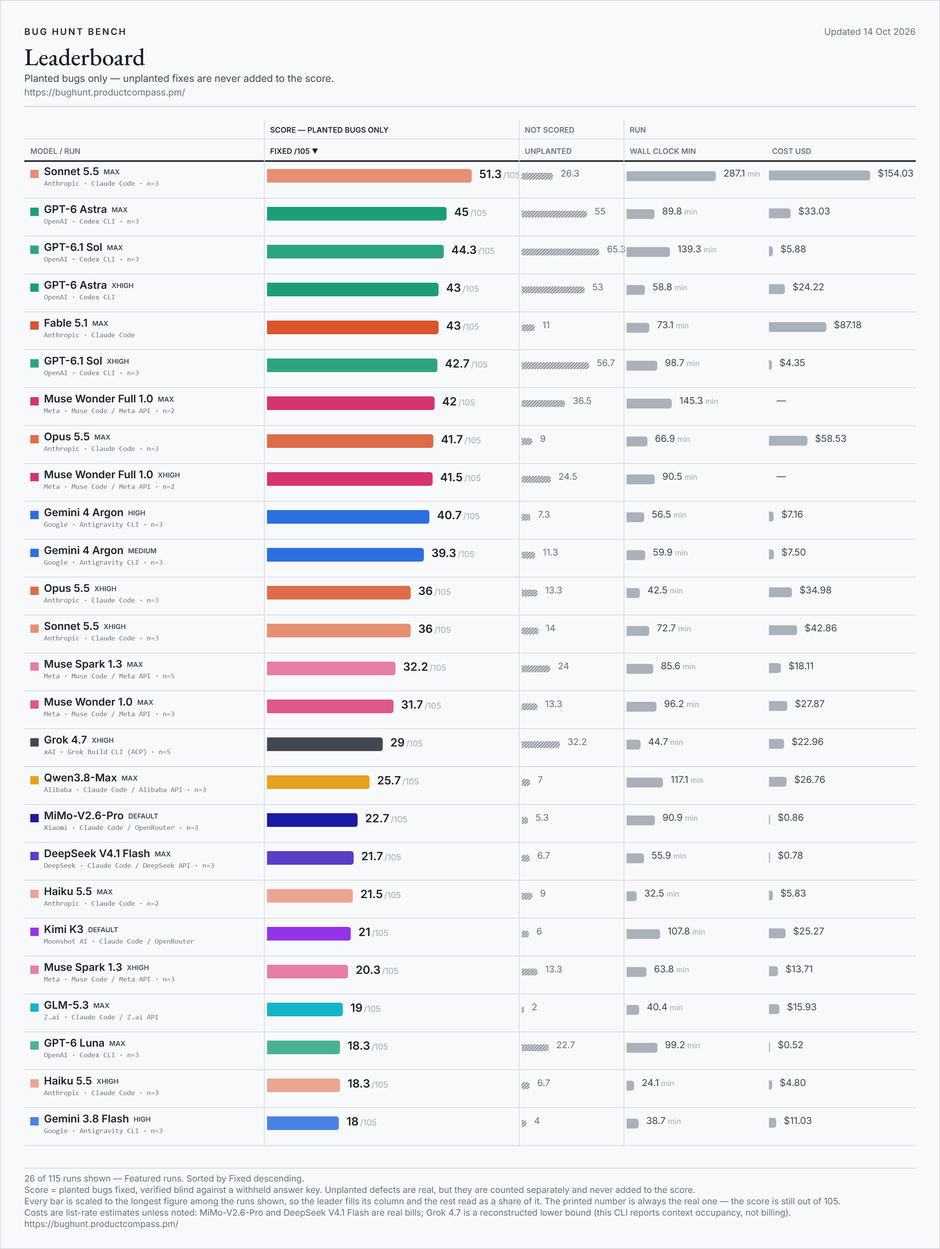
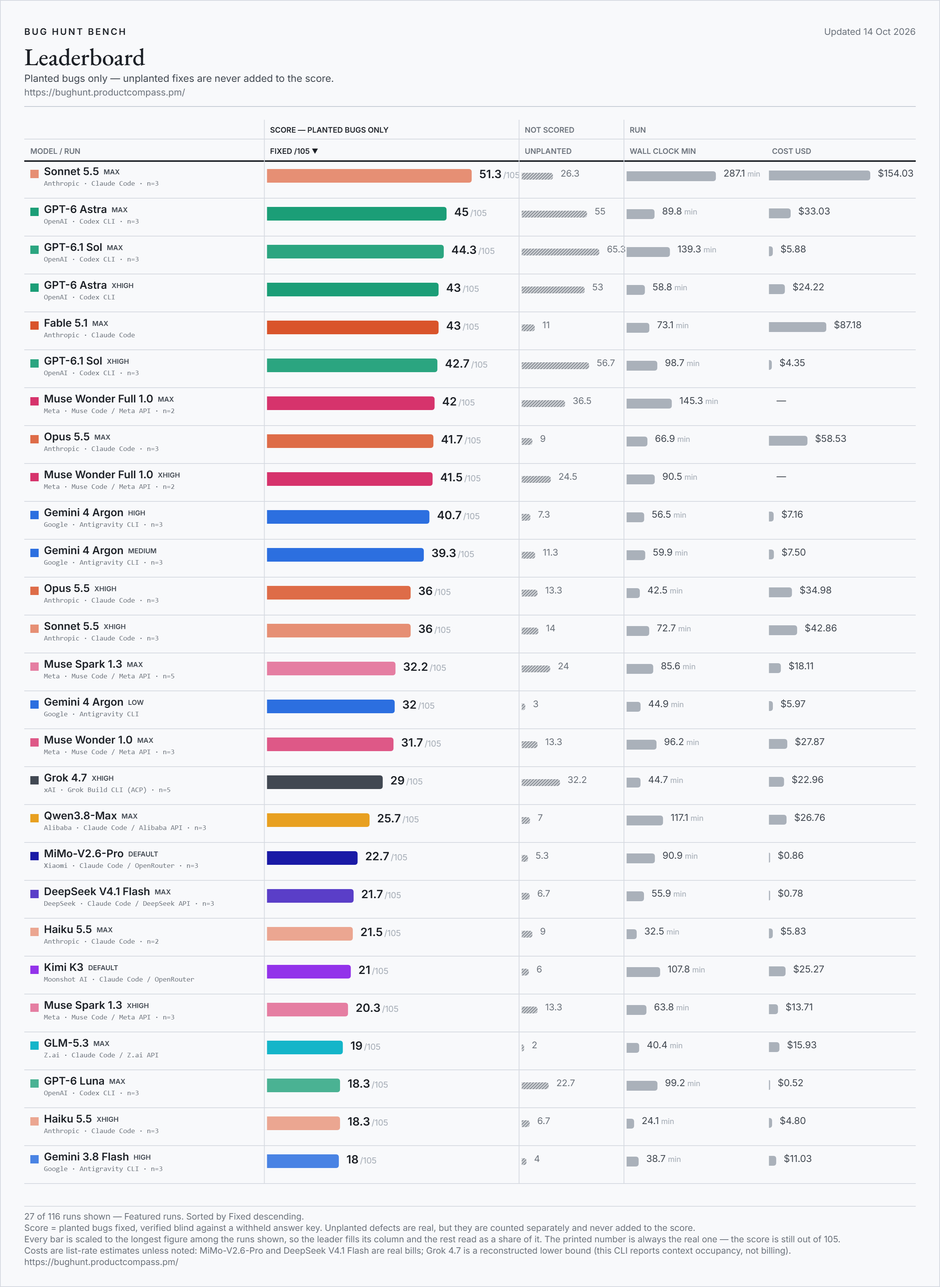
bug hunt bench: Gemini 4 Argon (low effort, Antigravity CLI) (32/105)

Changed region(s): [[0.031, 0.0312, 0.9625, 1.0], [0.8073, 0.4062, 0.9004, 0.9062]]

diff --git a/index.html b/index.html
@@ -22,14 +22,14 @@
 <meta property="og:title" content="Bug Hunt Bench — frontier coding models against real planted bugs">
 <meta property="og:description" content="A blind-graded benchmark of frontier coding models on real bugs planted in two production codebases. The score counts planted bugs only; extra fixes are tracked separately and never added.">
 <meta property="og:url" content="https://bughunt.productcompass.pm/">
-<meta property="og:image" content="https://bughunt.productcompass.pm/og-image.png?v=2026-10-14-f65923af">
+<meta property="og:image" content="https://bughunt.productcompass.pm/og-image.png?v=2026-10-14-38fbb041">
 <meta property="og:image:width" content="1200">
 <meta property="og:image:height" content="630">
 <meta property="og:image:alt" content="Bug Hunt Bench leaderboard">
 <meta name="twitter:card" content="summary_large_image">
 <meta name="twitter:title" content="Bug Hunt Bench — frontier coding models against real planted bugs">
 <meta name="twitter:description" content="A blind-graded benchmark of frontier coding models on real bugs planted in two production codebases. The score counts planted bugs only.">
-<meta name="twitter:image" content="https://bughunt.productcompass.pm/og-image.png?v=2026-10-14-f65923af">
+<meta name="twitter:image" content="https://bughunt.productcompass.pm/og-image.png?v=2026-10-14-38fbb041">
 <meta name="twitter:creator" content="@PawelHuryn">
 
 <link rel="icon" href="/assets/favicon.svg" type="image/svg+xml">

diff --git a/method.html b/method.html
@@ -20,14 +20,14 @@
 <meta property="og:title" content="Method, caveats and definitions — Bug Hunt Bench">
 <meta property="og:description" content="How Bug Hunt Bench is run and graded, what the board cannot tell you, and what every column on it means.">
 <meta property="og:url" content="https://bughunt.productcompass.pm/method">
-<meta property="og:image" content="https://bughunt.productcompass.pm/og-image.png?v=2026-10-14-f65923af">
+<meta property="og:image" content="https://bughunt.productcompass.pm/og-image.png?v=2026-10-14-38fbb041">
 <meta property="og:image:width" content="1200">
 <meta property="og:image:height" content="630">
 <meta property="og:image:alt" content="Bug Hunt Bench leaderboard">
 <meta name="twitter:card" content="summary_large_image">
 <meta name="twitter:title" content="Method, caveats and definitions — Bug Hunt Bench">
 <meta name="twitter:description" content="How Bug Hunt Bench is run and graded, what the board cannot tell you, and what every column on it means.">
-<meta name="twitter:image" content="https://bughunt.productcompass.pm/og-image.png?v=2026-10-14-f65923af">
+<meta name="twitter:image" content="https://bughunt.productcompass.pm/og-image.png?v=2026-10-14-38fbb041">
 <meta name="twitter:creator" content="@PawelHuryn">
 
 <link rel="icon" href="/assets/favicon.svg" type="image/svg+xml">

diff --git a/README.md b/README.md
@@ -7,9 +7,9 @@
 If the numbers save you a benchmark run of your own, **star this repo** — that is what keeps the bench findable, and new models are added as they ship.
 
 <!-- leaderboard:start -->
-![Bug Hunt Bench leaderboard, the featured runs, updated Oct 14, 2026](assets/leaderboard.png?v=2026-10-14-4c27cbd3)
+![Bug Hunt Bench leaderboard, the featured runs, updated Oct 14, 2026](assets/leaderboard.png?v=2026-10-14-42e4599e)
 
-**Updated Oct 14, 2026 · 183 rows from 224 scored runs · 46 models · 26 of 105 bugs have never been fixed by any model.**
+**Updated Oct 14, 2026 · 184 rows from 225 scored runs · 46 models · 26 of 105 bugs have never been fixed by any model.**
 
 **Current leader:** Sonnet 5.5 at `max` effort — **51.3 / 105** (22.7/45 on repo 1, 28.7/60 on repo 2).
 
@@ -40,98 +40,99 @@ If the numbers save you a benchmark run of your own, **star this repo** — that
 | 21 | Gemini 4 Argon | Gemini CLI | high | 1 | **33** | 15 | 18 | 7 | 85 min | $32.08 | 2026-10-13 |
 | 22 | Fable 5.1 | Claude Code | high | 1 | **33** | 15 | 18 | 7 | 36 min | $48.58 | 2026-09-01 |
 | 23 | Muse Spark 1.3 | Muse Code / Meta API | max | 5 | **32.2** | 14.2 | 18 | 24 | 86 min | $18.11 | 2026-09-17 |
-| 24 | GPT-5.6 Terra | Codex CLI | max | 1 | **32** | 16 | 16 | 45 | 160 min | $27.98 | 2026-08-27 |
-| 25 | Opus 5.5 | Claude Code | high | 3 | **31.7** | 13 | 18.7 | 10.7 | 24 min | $22.25 | 2026-09-23 |
-| 26 | Muse Wonder 1.0 | Muse Code / Meta API | max | 3 | **31.7** | 12 | 19.7 | 13.3 | 96 min | $27.87 | 2026-10-13 |
-| 27 | GPT-5.6 Luna | Codex CLI | max | 3 | **31.3** | 16 | 15.3 | 54.7 | 187 min | $3.15 | 2026-09-22 |
-| 28 | Pareto (ex-Union Alpha) | Claude Code / OpenRouter | default | 3 | **30.7** | 16 | 14.7 | 10.3 | 38 min | $4.81 | 2026-09-17 |
-| 29 | Opus 5.5 | Claude Code | medium | 3 | **30.3** | 12.7 | 17.7 | 13.3 | 17 min | $15.68 | 2026-09-23 |
-| 30 | GPT-6 Sol | Codex CLI | max | 3 | **29.3** | 15.3 | 14 | 41.3 | 63 min | $9.33 | 2026-09-23 |
-| 31 | GPT-6.1 Sol | Codex CLI | medium | 2 | **29** | 16 | 13 | 30.5 | 30 min | $1.76 | 2026-09-30 |
-| 32 | GPT-5.6 Sol | Codex CLI | medium | 1 | **29** | 13 | 16 | 24 | 48 min | $15.77 | 2026-09-06 |
-| 33 | Grok 4.7 | Grok Build CLI (ACP) | xhigh | 5 | **29** | 13 | 16 | 32.2 | 45 min | $22.96 floor | 2026-10-08 |
-| 34 | Fable 5.1 | Claude Code | low | 1 | **29** | 13 | 16 | 6 | 33 min | $33.00 | 2026-09-02 |
-| 35 | Fable 5.1 | Claude Code | xhigh | 1 | **29** | 13 | 16 | 4 | 60 min | $53.61 | 2026-09-10 |
-| 36 | Fable 5 | Claude Code | max | 1 | **29** | 12 | 17 | 5 | 57 min | $112.40 | 2026-08-01 |
-| 37 | Grok 4.6 | Grok Build CLI (ACP) | xhigh | 3 | **28.7** | 11.7 | 17 | 18 | 43 min | $18.60 floor | 2026-09-14 |
-| 38 | GPT-6 Astra | Codex CLI | low | 1 | **27** | 18 | 9 | 25 | 32 min | $11.69 | 2026-09-05 |
-| 39 | Opus 5 | Claude Code | max | 1 | **27** | 13 | 14 | 2 | 60 min | $54.94 | 2026-08-01 |
-| 40 | Grok 4.7 | Grok Build CLI (ACP) | medium | 3 | **26.7** | 12 | 14.7 | 22.7 | 31 min | $16.76 floor | 2026-09-21 |
-| 41 | Qwen3.8-Flash | Claude Code / Alibaba API | max | 1 | **26** | 13 | 13 | 7 | 97 min | $1.81 | 2026-09-11 |
-| 42 | Opus 5 | Claude Code | xhigh | 1 | **26** | 14 | 12 | 3 | 50 min | $63.25 | 2026-08-28 |
-| 43 | Qwen3.8-Max | Claude Code / Alibaba API | max | 3 | **25.7** | 12.3 | 13.3 | 7 | 117 min | $26.76 | 2026-09-15 |
-| 44 | GPT-6 Sol | Codex CLI | xhigh | 1 | **25** | 10 | 15 | 24 | 51 min | $7.67 | 2026-09-23 |
-| 45 | Opus 5 | Claude Code | medium | 1 | **24** | 11 | 13 | 4 | 30 min | $37.40 | 2026-08-27 |
-| 46 | Fable 5 | Claude Code | high | 1 | **24** | 9 | 15 | 3 | 31 min | $74.52 | 2026-07-26 |
-| 47 | MiMo-V2.6-Flash | Claude Code / OpenRouter | default | 3 | **23.3** | 8 | 15.3 | 7.3 | 71 min | $0.49 bill | 2026-09-22 |
-| 48 | Sonnet 5.5 | Claude Code | medium | 3 | **23.3** | 8.7 | 14.7 | 8.7 | 17 min | $11.11 | 2026-09-30 |
-| 49 | Qwen3.8-Flash | Claude Code / Alibaba API | low | 1 | **23** | 11 | 12 | 7 | 98 min | $1.37 | 2026-09-11 |
-| 50 | GPT-5.6 Luna | Codex CLI | xhigh | 1 | **23** | 10 | 13 | 53 | 136 min | $2.50 | 2026-08-28 |
-| 51 | Grok 4.6 | Grok Build CLI (ACP) | high | 1 | **23** | 7 | 16 | 16 | 33 min | $15.73 floor | 2026-08-28 |
-| 52 | MiMo-V2.6-Pro | Claude Code / OpenRouter | default | 3 | **22.7** | 11.3 | 11.3 | 5.3 | 91 min | $0.86 bill | 2026-09-22 |
-| 53 | GPT-6.1 Sol | Codex CLI | low | 2 | **22.5** | 11.5 | 11 | 24 | 25 min | $1.34 | 2026-10-01 |
-| 54 | Opus 5.5 | Claude Code | low | 3 | **22.3** | 11.3 | 11 | 9.7 | 12 min | $8.34 | 2026-09-23 |
-| 55 | Grok 4.6 | Grok Build CLI (ACP) | medium | 1 | **22** | 9 | 13 | 11 | 26 min | $5.80 floor | 2026-08-28 |
-| 56 | Gemini 3.7 Flash | Gemini CLI (retired) + model-pinning gateway | high | 1 | **22** | 8 | 14 | 4 | 97 min | $8.43 | 2026-08-24 |
-| 57 | DeepSeek V4.1 Flash | Claude Code / DeepSeek API | max | 3 | **21.7** | 11.3 | 10.3 | 6.7 | 56 min | $0.78 bill | 2026-09-15 |
-| 58 | Haiku 5.5 | Claude Code | max | 2 | **21.5** | 10 | 11.5 | 9 | 32 min | $5.83 | 2026-10-07 |
-| 59 | Fable 5.1 | Claude Code | medium | 1 | **21** | 8 | 13 | 3 | 23 min | $23.73 | 2026-09-10 |
-| 60 | Kimi K3 | Claude Code / OpenRouter | default | 1 | **21** | 4 | 17 | 6 | 108 min | $25.27 | 2026-07-26 |
-| 61 | Opus 5 | Claude Code | high | 1 | **21** | 11 | 10 | 6 | 37 min | $41.51 | 2026-07-26 |
-| 62 | Muse Spark 1.3 | Muse Code / Meta API | xhigh | 3 | **20.3** | 8 | 12.3 | 13.3 | 64 min | $13.71 | 2026-09-14 |
-| 63 | GPT-6 Sol | Codex CLI | high | 1 | **20** | 10 | 10 | 15 | 34 min | $4.16 | 2026-09-23 |
-| 64 | GPT-5.6 Terra | Codex CLI | xhigh | 1 | **20** | 9 | 11 | 29 | 57 min | $8.98 | 2026-08-28 |
-| 65 | Grok 4.7 | Grok Build CLI (ACP) | high | 3 | **19.3** | 8.7 | 10.7 | 15.7 | 38 min | $12.29 floor | 2026-09-21 |
-| 66 | DeepSeek V4.1 Flash | Claude Code / DeepSeek API | high | 1 | **19** | 9 | 10 | 4 | 26 min | $0.31 bill | 2026-09-10 |
-| 67 | Sonnet 5.5 | Claude Code | low | 3 | **19** | 6.7 | 12.3 | 8 | 8 min | $5.73 | 2026-09-30 |
-| 68 | GLM-5.3 | Claude Code / Z.ai API | max | 1 | **19** | 9 | 10 | 2 | 40 min | $15.93 | 2026-09-10 |
-| 69 | Muse Spark 1.3 | Muse Code / Meta API | high | 3 | **18.7** | 8.7 | 10 | 19.3 | 76 min | $12.94 | 2026-09-14 |
-| 70 | GPT-6 Luna | Codex CLI | max | 3 | **18.3** | 6.3 | 12 | 22.7 | 99 min | $0.52 | 2026-09-23 |
-| 71 | Haiku 5.5 | Claude Code | xhigh | 3 | **18.3** | 9 | 9.3 | 6.7 | 24 min | $4.80 | 2026-10-07 |
-| 72 | MiMo-V2.6-Pro | Claude Code / Xiaomi first-party | enabled | 1 | **18** | 9 | 9 | 4 | 75 min | $0.59 | 2026-09-22 |
-| 73 | Hy4 Preview | Claude Code / OpenRouter | default | 1 | **18** | 9 | 9 | 2 | 68 min | $3.13 bill | 2026-08-28 |
-| 74 | GPT-5.6 Terra | Codex CLI | high | 1 | **18** | 7 | 11 | 17 | 28 min | $5.89 | 2026-08-27 |
-| 75 | Gemini 3.8 Flash | Antigravity CLI | high | 3 | **18** | 6.7 | 11.3 | 4 | 39 min | $11.03 | 2026-09-15 |
-| 76 | GLM-5.3 Flash | Claude Code / Z.ai API | max | 3 | **17.7** | 9.3 | 8.3 | 3.3 | 63 min | $1.03 | 2026-09-15 |
-| 77 | Grok 4.5 | Grok Build CLI (ACP) | high | 1 | **17** | 5 | 12 | 10 | 28 min | $8.50 floor | 2026-08-06 |
-| 78 | Muse Spark 1.2 | Claude Code / Meta API | xhigh | 1 | **17** | 6 | 11 | 12 | 36 min | $13.99 | 2026-08-06 |
-| 79 | Ox Alpha (stealth) | Claude Code / OpenRouter | default | 1 | **16** | 8 | 8 | 3 | 59 min | free | 2026-08-25 |
-| 80 | GLM-5.3 Flash | Claude Code / Z.ai API | high | 1 | **16** | 9 | 7 | 4 | 62 min | $0.94 | 2026-09-13 |
-| 81 | DeepSeek V4-Pro | Claude Code / DeepSeek API | max | 1 | **16** | 8 | 8 | 4 | 37 min | $1.89 bill | 2026-09-10 |
-| 82 | Haiku 5.5 | Claude Code | high | 2 | **16** | 5 | 11 | 4 | 19 min | $3.56 | 2026-10-07 |
-| 83 | Gemini 3.7 Flash | Antigravity CLI | high | 1 | **16** | 4 | 12 | 2 | 23 min | $6.36 | 2026-08-28 |
-| 84 | Grok 4.7 | Grok Build CLI (ACP) | low | 3 | **15.7** | 10.3 | 5.3 | 18.3 | 22 min | $9.36 floor | 2026-09-21 |
-| 85 | GPT-5.6 Terra | Codex CLI | medium | 1 | **15** | 4 | 11 | 6 | 20 min | $3.87 | 2026-08-27 |
-| 86 | Grok 4.6 | Grok Build CLI (ACP) | low | 1 | **15** | 6 | 9 | 9 | 18 min | $4.14 floor | 2026-08-27 |
-| 87 | Qwen3.8-27B | Claude Code / Alibaba API | xhigh | 3 | **15** | 5.7 | 9.3 | 2.3 | 57 min | $5.55 | 2026-09-15 |
-| 88 | Mistral Large 4 | Claude Code / OpenRouter | high | 3 | **15** | 5 | 10 | 3.3 | 111 min | $11.95 bill | 2026-10-07 |
-| 89 | Opus 4.8 | Claude Code | max | 1 | **15** | 6 | 9 | 3 | 109 min | $58.11 | 2026-09-10 |
-| 90 | GPT-6 Luna | Codex CLI | xhigh | 1 | **14** | 4 | 10 | 12 | 57 min | $0.39 | 2026-09-23 |
-| 91 | DeepSeek V4-Flash | Claude Code / OpenRouter | default | 1 | **14** | 6 | 8 | 0 | 48 min | $1.52 bill | 2026-08-01 |
-| 92 | GPT-6 Sol | Codex CLI | medium | 1 | **14** | 3 | 11 | 13 | 24 min | $2.39 | 2026-09-23 |
-| 93 | GPT-5.6 Luna | Codex CLI | high | 1 | **13** | 5 | 8 | 22 | 64 min | $0.57 | 2026-07-31 |
-| 94 | GLM-5.3 Flash | Claude Code / OpenRouter | default | 1 | **13** | 6 | 7 | 4 | 57 min | $0.79 bill | 2026-08-27 |
-| 95 | DeepSeek V4-Pro | Claude Code / DeepSeek API | high | 1 | **13** | 4 | 9 | 1 | 27 min | $1.08 bill | 2026-09-10 |
-| 96 | Muse Spark 1.3 | Muse Code / Meta API | medium | 3 | **13** | 5.3 | 7.7 | 17.3 | 58 min | $9.24 | 2026-09-14 |
-| 97 | Haiku 5.5 | Claude Code | medium | 1 | **12** | 5 | 7 | 4 | 16 min | $2.66 | 2026-10-08 |
-| 98 | Haiku 5.5 | Claude Code | low | 1 | **11** | 4 | 7 | 2 | 9 min | $1.61 | 2026-10-08 |
-| 99 | Qwen3.8-27B 8-bit | Claude Code / OpenRouter | default | 3 | **10.7** | 3.7 | 7 | 1.7 | 57 min | $2.97 bill | 2026-09-16 |
-| 100 | Muse Spark 1.3 | Muse Code / Meta API | low | 3 | **9.7** | 5 | 4.7 | 6.7 | 36 min | $5.61 | 2026-09-14 |
-| 101 | GPT-6 Luna | Codex CLI | high | 1 | **9** | 2 | 7 | 9 | 24 min | $0.13 | 2026-09-23 |
-| 102 | GPT-5.6 Luna | Codex CLI | medium | 1 | **9** | 5 | 4 | 5 | 15 min | $0.33 | 2026-08-27 |
-| 103 | GLM-5.3 Flash | Claude Code / Z.ai API | low | 1 | **9** | 7 | 2 | 4 | 29 min | $0.42 | 2026-09-13 |
-| 104 | Sonnet 5 | Claude Code | high | 1 | **9** | 1 | 8 | 4 | 33 min | $11.38 | 2026-07-26 |
-| 105 | Sonnet 5 | Claude Code | max | 1 | **9** | 3 | 6 | 3 | 61 min | $17.96 | 2026-09-10 |
-| 106 | Opus 4.8 | Claude Code | high | 1 | **9** | 2 | 7 | 1 | 35 min | $21.30 | 2026-07-26 |
-| 107 | GPT-6 Sol | Codex CLI | low | 1 | **6** | 3 | 3 | 5 | 11 min | $1.08 | 2026-09-23 |
-| 108 | GPT-6 Luna | Codex CLI | medium | 1 | **4** | 2 | 2 | 0 | 9 min | $0.06 | 2026-09-23 |
-| 109 | GPT-5.6 Luna | Codex CLI | low | 1 | **4** | 0 | 4 | 1 | 6 min | $0.10 | 2026-08-27 |
-| 110 | GPT-6 Luna | Codex CLI | low | 1 | **4** | 1 | 3 | 9 | 19 min | $0.20 | 2026-09-23 |
-| 111 | Gemma 4 31B | Claude Code / OpenRouter | default | 1 | **4** | 1 | 3 | 2 | 222 min | $8.61 bill | 2026-09-16 |
-| 112 | Gemma 4 31B 4-bit | Claude Code / OpenRouter | default | 1 | **3** | 1 | 2 | 2 | 25 min | $0.56 bill | 2026-09-16 |
-| 113 | Haiku 4.5 | Claude Code | default | 2 | **1.5** | 0.5 | 1 | 2.5 | 17 min | $2.22 | 2026-10-08 |
-| 114 | gpt-oss-120b | Claude Code / OpenRouter | default | 3 | **0** | 0 | 0 | 0.3 | 4 min | $0.11 bill | 2026-09-15 |
-| 115 | gpt-oss-20b | Claude Code / OpenRouter | default | 3 | **0** | 0 | 0 | 0 | 7 min | $0.11 bill | 2026-09-15 |
+| 24 | Gemini 4 Argon | Antigravity CLI | low | 1 | **32** | 12 | 20 | 3 | 45 min | $5.97 | 2026-10-14 |
+| 25 | GPT-5.6 Terra | Codex CLI | max | 1 | **32** | 16 | 16 | 45 | 160 min | $27.98 | 2026-08-27 |
+| 26 | Opus 5.5 | Claude Code | high | 3 | **31.7** | 13 | 18.7 | 10.7 | 24 min | $22.25 | 2026-09-23 |
+| 27 | Muse Wonder 1.0 | Muse Code / Meta API | max | 3 | **31.7** | 12 | 19.7 | 13.3 | 96 min | $27.87 | 2026-10-13 |
+| 28 | GPT-5.6 Luna | Codex CLI | max | 3 | **31.3** | 16 | 15.3 | 54.7 | 187 min | $3.15 | 2026-09-22 |
+| 29 | Pareto (ex-Union Alpha) | Claude Code / OpenRouter | default | 3 | **30.7** | 16 | 14.7 | 10.3 | 38 min | $4.81 | 2026-09-17 |
+| 30 | Opus 5.5 | Claude Code | medium | 3 | **30.3** | 12.7 | 17.7 | 13.3 | 17 min | $15.68 | 2026-09-23 |
+| 31 | GPT-6 Sol | Codex CLI | max | 3 | **29.3** | 15.3 | 14 | 41.3 | 63 min | $9.33 | 2026-09-23 |
+| 32 | GPT-6.1 Sol | Codex CLI | medium | 2 | **29** | 16 | 13 | 30.5 | 30 min | $1.76 | 2026-09-30 |
+| 33 | GPT-5.6 Sol | Codex CLI | medium | 1 | **29** | 13 | 16 | 24 | 48 min | $15.77 | 2026-09-06 |
+| 34 | Grok 4.7 | Grok Build CLI (ACP) | xhigh | 5 | **29** | 13 | 16 | 32.2 | 45 min | $22.96 floor | 2026-10-08 |
+| 35 | Fable 5.1 | Claude Code | low | 1 | **29** | 13 | 16 | 6 | 33 min | $33.00 | 2026-09-02 |
+| 36 | Fable 5.1 | Claude Code | xhigh | 1 | **29** | 13 | 16 | 4 | 60 min | $53.61 | 2026-09-10 |
+| 37 | Fable 5 | Claude Code | max | 1 | **29** | 12 | 17 | 5 | 57 min | $112.40 | 2026-08-01 |
+| 38 | Grok 4.6 | Grok Build CLI (ACP) | xhigh | 3 | **28.7** | 11.7 | 17 | 18 | 43 min | $18.60 floor | 2026-09-14 |
+| 39 | GPT-6 Astra | Codex CLI | low | 1 | **27** | 18 | 9 | 25 | 32 min | $11.69 | 2026-09-05 |
+| 40 | Opus 5 | Claude Code | max | 1 | **27** | 13 | 14 | 2 | 60 min | $54.94 | 2026-08-01 |
+| 41 | Grok 4.7 | Grok Build CLI (ACP) | medium | 3 | **26.7** | 12 | 14.7 | 22.7 | 31 min | $16.76 floor | 2026-09-21 |
+| 42 | Qwen3.8-Flash | Claude Code / Alibaba API | max | 1 | **26** | 13 | 13 | 7 | 97 min | $1.81 | 2026-09-11 |
+| 43 | Opus 5 | Claude Code | xhigh | 1 | **26** | 14 | 12 | 3 | 50 min | $63.25 | 2026-08-28 |
+| 44 | Qwen3.8-Max | Claude Code / Alibaba API | max | 3 | **25.7** | 12.3 | 13.3 | 7 | 117 min | $26.76 | 2026-09-15 |
+| 45 | GPT-6 Sol | Codex CLI | xhigh | 1 | **25** | 10 | 15 | 24 | 51 min | $7.67 | 2026-09-23 |
+| 46 | Opus 5 | Claude Code | medium | 1 | **24** | 11 | 13 | 4 | 30 min | $37.40 | 2026-08-27 |
+| 47 | Fable 5 | Claude Code | high | 1 | **24** | 9 | 15 | 3 | 31 min | $74.52 | 2026-07-26 |
+| 48 | MiMo-V2.6-Flash | Claude Code / OpenRouter | default | 3 | **23.3** | 8 | 15.3 | 7.3 | 71 min | $0.49 bill | 2026-09-22 |
+| 49 | Sonnet 5.5 | Claude Code | medium | 3 | **23.3** | 8.7 | 14.7 | 8.7 | 17 min | $11.11 | 2026-09-30 |
+| 50 | Qwen3.8-Flash | Claude Code / Alibaba API | low | 1 | **23** | 11 | 12 | 7 | 98 min | $1.37 | 2026-09-11 |
+| 51 | GPT-5.6 Luna | Codex CLI | xhigh | 1 | **23** | 10 | 13 | 53 | 136 min | $2.50 | 2026-08-28 |
+| 52 | Grok 4.6 | Grok Build CLI (ACP) | high | 1 | **23** | 7 | 16 | 16 | 33 min | $15.73 floor | 2026-08-28 |
+| 53 | MiMo-V2.6-Pro | Claude Code / OpenRouter | default | 3 | **22.7** | 11.3 | 11.3 | 5.3 | 91 min | $0.86 bill | 2026-09-22 |
+| 54 | GPT-6.1 Sol | Codex CLI | low | 2 | **22.5** | 11.5 | 11 | 24 | 25 min | $1.34 | 2026-10-01 |
+| 55 | Opus 5.5 | Claude Code | low | 3 | **22.3** | 11.3 | 11 | 9.7 | 12 min | $8.34 | 2026-09-23 |
+| 56 | Grok 4.6 | Grok Build CLI (ACP) | medium | 1 | **22** | 9 | 13 | 11 | 26 min | $5.80 floor | 2026-08-28 |
+| 57 | Gemini 3.7 Flash | Gemini CLI (retired) + model-pinning gateway | high | 1 | **22** | 8 | 14 | 4 | 97 min | $8.43 | 2026-08-24 |
+| 58 | DeepSeek V4.1 Flash | Claude Code / DeepSeek API | max | 3 | **21.7** | 11.3 | 10.3 | 6.7 | 56 min | $0.78 bill | 2026-09-15 |
+| 59 | Haiku 5.5 | Claude Code | max | 2 | **21.5** | 10 | 11.5 | 9 | 32 min | $5.83 | 2026-10-07 |
+| 60 | Fable 5.1 | Claude Code | medium | 1 | **21** | 8 | 13 | 3 | 23 min | $23.73 | 2026-09-10 |
+| 61 | Kimi K3 | Claude Code / OpenRouter | default | 1 | **21** | 4 | 17 | 6 | 108 min | $25.27 | 2026-07-26 |
+| 62 | Opus 5 | Claude Code | high | 1 | **21** | 11 | 10 | 6 | 37 min | $41.51 | 2026-07-26 |
+| 63 | Muse Spark 1.3 | Muse Code / Meta API | xhigh | 3 | **20.3** | 8 | 12.3 | 13.3 | 64 min | $13.71 | 2026-09-14 |
+| 64 | GPT-6 Sol | Codex CLI | high | 1 | **20** | 10 | 10 | 15 | 34 min | $4.16 | 2026-09-23 |
+| 65 | GPT-5.6 Terra | Codex CLI | xhigh | 1 | **20** | 9 | 11 | 29 | 57 min | $8.98 | 2026-08-28 |
+| 66 | Grok 4.7 | Grok Build CLI (ACP) | high | 3 | **19.3** | 8.7 | 10.7 | 15.7 | 38 min | $12.29 floor | 2026-09-21 |
+| 67 | DeepSeek V4.1 Flash | Claude Code / DeepSeek API | high | 1 | **19** | 9 | 10 | 4 | 26 min | $0.31 bill | 2026-09-10 |
+| 68 | Sonnet 5.5 | Claude Code | low | 3 | **19** | 6.7 | 12.3 | 8 | 8 min | $5.73 | 2026-09-30 |
+| 69 | GLM-5.3 | Claude Code / Z.ai API | max | 1 | **19** | 9 | 10 | 2 | 40 min | $15.93 | 2026-09-10 |
+| 70 | Muse Spark 1.3 | Muse Code / Meta API | high | 3 | **18.7** | 8.7 | 10 | 19.3 | 76 min | $12.94 | 2026-09-14 |
+| 71 | GPT-6 Luna | Codex CLI | max | 3 | **18.3** | 6.3 | 12 | 22.7 | 99 min | $0.52 | 2026-09-23 |
+| 72 | Haiku 5.5 | Claude Code | xhigh | 3 | **18.3** | 9 | 9.3 | 6.7 | 24 min | $4.80 | 2026-10-07 |
+| 73 | MiMo-V2.6-Pro | Claude Code / Xiaomi first-party | enabled | 1 | **18** | 9 | 9 | 4 | 75 min | $0.59 | 2026-09-22 |
+| 74 | Hy4 Preview | Claude Code / OpenRouter | default | 1 | **18** | 9 | 9 | 2 | 68 min | $3.13 bill | 2026-08-28 |
+| 75 | GPT-5.6 Terra | Codex CLI | high | 1 | **18** | 7 | 11 | 17 | 28 min | $5.89 | 2026-08-27 |
+| 76 | Gemini 3.8 Flash | Antigravity CLI | high | 3 | **18** | 6.7 | 11.3 | 4 | 39 min | $11.03 | 2026-09-15 |
+| 77 | GLM-5.3 Flash | Claude Code / Z.ai API | max | 3 | **17.7** | 9.3 | 8.3 | 3.3 | 63 min | $1.03 | 2026-09-15 |
+| 78 | Grok 4.5 | Grok Build CLI (ACP) | high | 1 | **17** | 5 | 12 | 10 | 28 min | $8.50 floor | 2026-08-06 |
+| 79 | Muse Spark 1.2 | Claude Code / Meta API | xhigh | 1 | **17** | 6 | 11 | 12 | 36 min | $13.99 | 2026-08-06 |
+| 80 | Ox Alpha (stealth) | Claude Code / OpenRouter | default | 1 | **16** | 8 | 8 | 3 | 59 min | free | 2026-08-25 |
+| 81 | GLM-5.3 Flash | Claude Code / Z.ai API | high | 1 | **16** | 9 | 7 | 4 | 62 min | $0.94 | 2026-09-13 |
+| 82 | DeepSeek V4-Pro | Claude Code / DeepSeek API | max | 1 | **16** | 8 | 8 | 4 | 37 min | $1.89 bill | 2026-09-10 |
+| 83 | Haiku 5.5 | Claude Code | high | 2 | **16** | 5 | 11 | 4 | 19 min | $3.56 | 2026-10-07 |
+| 84 | Gemini 3.7 Flash | Antigravity CLI | high | 1 | **16** | 4 | 12 | 2 | 23 min | $6.36 | 2026-08-28 |
+| 85 | Grok 4.7 | Grok Build CLI (ACP) | low | 3 | **15.7** | 10.3 | 5.3 | 18.3 | 22 min | $9.36 floor | 2026-09-21 |
+| 86 | GPT-5.6 Terra | Codex CLI | medium | 1 | **15** | 4 | 11 | 6 | 20 min | $3.87 | 2026-08-27 |
+| 87 | Grok 4.6 | Grok Build CLI (ACP) | low | 1 | **15** | 6 | 9 | 9 | 18 min | $4.14 floor | 2026-08-27 |
+| 88 | Qwen3.8-27B | Claude Code / Alibaba API | xhigh | 3 | **15** | 5.7 | 9.3 | 2.3 | 57 min | $5.55 | 2026-09-15 |
+| 89 | Mistral Large 4 | Claude Code / OpenRouter | high | 3 | **15** | 5 | 10 | 3.3 | 111 min | $11.95 bill | 2026-10-07 |
+| 90 | Opus 4.8 | Claude Code | max | 1 | **15** | 6 | 9 | 3 | 109 min | $58.11 | 2026-09-10 |
+| 91 | GPT-6 Luna | Codex CLI | xhigh | 1 | **14** | 4 | 10 | 12 | 57 min | $0.39 | 2026-09-23 |
+| 92 | DeepSeek V4-Flash | Claude Code / OpenRouter | default | 1 | **14** | 6 | 8 | 0 | 48 min | $1.52 bill | 2026-08-01 |
+| 93 | GPT-6 Sol | Codex CLI | medium | 1 | **14** | 3 | 11 | 13 | 24 min | $2.39 | 2026-09-23 |
+| 94 | GPT-5.6 Luna | Codex CLI | high | 1 | **13** | 5 | 8 | 22 | 64 min | $0.57 | 2026-07-31 |
+| 95 | GLM-5.3 Flash | Claude Code / OpenRouter | default | 1 | **13** | 6 | 7 | 4 | 57 min | $0.79 bill | 2026-08-27 |
+| 96 | DeepSeek V4-Pro | Claude Code / DeepSeek API | high | 1 | **13** | 4 | 9 | 1 | 27 min | $1.08 bill | 2026-09-10 |
+| 97 | Muse Spark 1.3 | Muse Code / Meta API | medium | 3 | **13** | 5.3 | 7.7 | 17.3 | 58 min | $9.24 | 2026-09-14 |
+| 98 | Haiku 5.5 | Claude Code | medium | 1 | **12** | 5 | 7 | 4 | 16 min | $2.66 | 2026-10-08 |
+| 99 | Haiku 5.5 | Claude Code | low | 1 | **11** | 4 | 7 | 2 | 9 min | $1.61 | 2026-10-08 |
+| 100 | Qwen3.8-27B 8-bit | Claude Code / OpenRouter | default | 3 | **10.7** | 3.7 | 7 | 1.7 | 57 min | $2.97 bill | 2026-09-16 |
+| 101 | Muse Spark 1.3 | Muse Code / Meta API | low | 3 | **9.7** | 5 | 4.7 | 6.7 | 36 min | $5.61 | 2026-09-14 |
+| 102 | GPT-6 Luna | Codex CLI | high | 1 | **9** | 2 | 7 | 9 | 24 min | $0.13 | 2026-09-23 |
+| 103 | GPT-5.6 Luna | Codex CLI | medium | 1 | **9** | 5 | 4 | 5 | 15 min | $0.33 | 2026-08-27 |
+| 104 | GLM-5.3 Flash | Claude Code / Z.ai API | low | 1 | **9** | 7 | 2 | 4 | 29 min | $0.42 | 2026-09-13 |
+| 105 | Sonnet 5 | Claude Code | high | 1 | **9** | 1 | 8 | 4 | 33 min | $11.38 | 2026-07-26 |
+| 106 | Sonnet 5 | Claude Code | max | 1 | **9** | 3 | 6 | 3 | 61 min | $17.96 | 2026-09-10 |
+| 107 | Opus 4.8 | Claude Code | high | 1 | **9** | 2 | 7 | 1 | 35 min | $21.30 | 2026-07-26 |
+| 108 | GPT-6 Sol | Codex CLI | low | 1 | **6** | 3 | 3 | 5 | 11 min | $1.08 | 2026-09-23 |
+| 109 | GPT-6 Luna | Codex CLI | medium | 1 | **4** | 2 | 2 | 0 | 9 min | $0.06 | 2026-09-23 |
+| 110 | GPT-5.6 Luna | Codex CLI | low | 1 | **4** | 0 | 4 | 1 | 6 min | $0.10 | 2026-08-27 |
+| 111 | GPT-6 Luna | Codex CLI | low | 1 | **4** | 1 | 3 | 9 | 19 min | $0.20 | 2026-09-23 |
+| 112 | Gemma 4 31B | Claude Code / OpenRouter | default | 1 | **4** | 1 | 3 | 2 | 222 min | $8.61 bill | 2026-09-16 |
+| 113 | Gemma 4 31B 4-bit | Claude Code / OpenRouter | default | 1 | **3** | 1 | 2 | 2 | 25 min | $0.56 bill | 2026-09-16 |
+| 114 | Haiku 4.5 | Claude Code | default | 2 | **1.5** | 0.5 | 1 | 2.5 | 17 min | $2.22 | 2026-10-08 |
+| 115 | gpt-oss-120b | Claude Code / OpenRouter | default | 3 | **0** | 0 | 0 | 0.3 | 4 min | $0.11 bill | 2026-09-15 |
+| 116 | gpt-oss-20b | Claude Code / OpenRouter | default | 3 | **0** | 0 | 0 | 0 | 7 min | $0.11 bill | 2026-09-15 |
 
 **Runs** is how many independent runs the row is built from. A row at `1` is a single measurement. A row above `1` is the MEAN of that many runs of an identical configuration - same model, prompt, harness, route, effort flag and judge - and every count, wall and cost on it is averaged, which is why those rows carry a decimal. The individual runs behind a mean are published in full in the metrics CSVs, so the spread stays auditable: this board has measured a 9-point range of 105 on a fixed configuration, so a single run is not a measurement of a model, and two rows at `1` that differ by a few points may not differ at all.
 

diff --git a/results/run-notes.md b/results/run-notes.md
@@ -2,7 +2,7 @@
 
 Every row on the board, with the note and caveat it carries. Generated from `data/benchmark.json` by `bench_golive.py` - do not edit by hand.
 
-Updated Oct 14, 2026 · 183 rows from 224 scored runs. Superseded rows are listed last.
+Updated Oct 14, 2026 · 184 rows from 225 scored runs. Superseded rows are listed last.
 
 ## Sonnet 5.5 (max effort) - mean of 3
 
@@ -161,6 +161,14 @@ Google's Gemini 4 Argon at thinking level high - its top tier - through Gemini C
 **Caveat.** FIVE RUNS, RANGE 6. The spread is the finding, not the mean: at n=3 this arm looked tight (range 2), and two more runs tripled the error bar. Treat 32.2 as an estimate with a wide known spread. TWO OF THE FIVE RUNS ARE SPLIT-VERSION - the harness updated itself mid-experiment and their repo-2 legs ran a newer build; the row explains why the evidence says that is not what lowered them. The replication is UNVERIFIED: this harness reports no context accounting, so nothing confirms the five runs shared a configuration beyond identical arm definitions. Repo figures round independently of the combined mean and can sum to 0.1 away from it.
 
 THE DEEPEST REPLICATION ON THIS BOARD: FIVE RUNS OF ONE CONFIGURATION. Runs scored 33, 33, 35, 29 and 31 of 105 (repo 1: 14, 17, 15, 12, 13 - repo 2: 19, 16, 20, 17, 18). Mean 32.2, range 6. *** WHAT THE TWO EXTRA RUNS BOUGHT WAS AN ERROR BAR, NOT A SCORE. *** The mean moved 1.5 points, from 33.7 to 32.2. The RANGE went from 2 to 6. At n=3 this arm read as tight and well-behaved - 33, 33, 35. At n=5 it spans 29 to 35, which is wider than the gap between several adjacent rows here. The three-run version did not merely estimate the mean imprecisely; it understated how much this configuration varies, in the direction that made it look steadier than it is. Read 32.2 as an estimate with a known and fairly wide spread. *** THE HARNESS UPDATED ITSELF DURING THIS EXPERIMENT, AND TWO RUNS ARE SPLIT-VERSION. *** Muse Code polls a release channel and replaces its own binary. Run 1 ran Muse Code 1.1.1; runs 2-5 ran 1.2.1; and the repo-2 legs of runs 4 and 5 came up on 1.3.0. So those two runs were graded across two harness versions. There is no version pin in the launcher, the channel serves only the current release, and the previous binary is deleted on upgrade, so 1.2.1 cannot be restored and this is not repairable by re-running. Further drift is now suppressed. *** THE DRIFT IS NOT WHAT LOWERED THE SCORE, AND THE SPLIT IS WHAT SHOWS IT. *** The obvious worry is that runs 4 and 5 are low because 1.3.0 is worse. Two facts say otherwise. First, the drop lives on repo 1, where the harness never changed: all four of runs 2-5 ran 1.2.1 there and scored 17, 15, 12 and 13 - a spread of 5 on a single repo with the version held constant. Second, repo 2 shows no version effect at all: the 1.2.1 runs scored 16 and 20, and the two 1.3.0 runs scored 17 and 18, sitting inside that range rather than below it. The low runs are run-to-run variance. That the drift landed on the half where it cannot be doing the damage is luck, not design, and it is disclosed here rather than quietly dropped because the answer happened to be convenient. *** THE REGIME BEHIND THESE RUNS IS UNVERIFIED, NOT VERIFIED. *** CANNOT TELL (gbvb); CANNOT TELL (abhb) - the automated check reads context accounting out of transcripts and this harness reports none, so it cannot confirm the five runs shared a regime. Stated plainly because the alternative is implying a check that did not happen. *** WALL TIME IS AN UPPER BOUND AND IS NOT COMPARABLE ACROSS THE FIVE RUNS. *** Runs 1-3 ran their legs alone. Runs 4 and 5 were run concurrently with each other, a deliberate exception to the usual one-leg-per-provider rule, and their repo-2 legs also shared the machine with other work; every affected row says so itself. Contention can inflate a wall figure and cannot shrink it. Scores, tokens and cost are unaffected. *** THE FAILURE RATE IS PART OF THE PICTURE AND IS VISIBLE IN THE RECEIPTS. *** Runs 4 and 5 needed several attempts on repo 2. Three attempts died without producing a report because the account's subscription quota was exhausted mid-leg - the retry layer absorbed the rate-limit responses and the harness reported three different and all misleading causes, including two stream-idle timeouts and a suspected local network fault. Those attempts produced no report and no score, are NOT counted as low runs here, and cost 8.35 dollars between them. A leg that never finished is not a result. The five runs that did finish cost 90.55 dollars in total.
+
+## Gemini 4 Argon (low effort, Antigravity CLI)
+
+**32 / 105** · repo 1 12/45 · repo 2 20/60 · 3 unplanted · 44.9 min · $5.97 · `low` · Antigravity CLI · single run · 2026-10-14
+
+**Caveat.** One run - the other two low runs did not finish their repo-2 legs. Judged by Grok, not Codex like the other Argon rows. Cost is a list estimate from Google's per-call usage.
+
+Google's Gemini 4 Argon at thinking level low - the lowest tier the API accepts for it - through the Antigravity CLI, set up exactly as the medium and high rows. ONE RUN: 32 of 105 - 12 of 45 on repo 1 and 20 of 60 on repo 2 - with 1 partial fix(es), 0 claimed-only and 3 genuine unplanted extras; 44.9 minutes, $5.97. Medium stands at 39.3 and high at 40.7 (means of three); low is the cheapest tier by a little, not by much. *** WHY ONE RUN *** Three low runs were started. In runs 1 and 3 the repo-2 leg did not finish: twice the local gateway stopped answering before Google started its stream (the CLI gives up on a response that has not begun within about a minute), and the resumed conversations then hit the API key's depleted prepaid credit. Run 2 completed both repos and is the row. *** A DIFFERENT JUDGE *** this row was judged by Grok (grok-4.7), not Codex gpt-5.5 like the other Argon rows: from about 16:56 on Oct 14 Codex refused gpt-5.5 for the account. Grok is this board's second calibrated judge and is not a sibling of Gemini, but scores from two judges are not perfectly interchangeable. *** EFFORT low *** agy sends thinkingLevel LOW for gemini-4-argon-low, read back at the gateway; a couple of agy's own side calls per run go out at HIGH regardless. *** COST *** a list estimate from Google's per-call usage at its launch rate ($2 input / $0.10 cached input / $10 output per million tokens), split between legs by agy's per-leg share. *** RECEIPTS *** Every leg shared the laptop with another arm, which the wall marker discloses - scores, tokens and cost are untouched by that, only the clock.
 
 ## GPT-5.6 Terra (max effort)
 

diff --git a/results/waves.md b/results/waves.md
@@ -4185,3 +4185,25 @@ separated here: high stays narrowly ahead, at about the same cost per run.
 **Run 3's repo-1 leg was resumed.** A console Ctrl+C killed its local gateway 46 minutes in; once the gateway was
 back, the same conversation continued for 12.7 minutes and finished. Its wall is the two segments' sum. The
 mean-of-2 row is superseded and kept.
+
+## Gemini 4 Argon at low — 32 of 105 in one run, Grok-judged (Oct 14)
+
+One run of Gemini 4 Argon at thinking level low, the lowest tier the API accepts for it, through the Antigravity CLI.
+
+| Row | Runs | Score | Repo 1 | Repo 2 | Extras | Wall | Cost |
+|---|---|---|---|---|---|---|---|
+| Gemini 4 Argon (low effort, Antigravity CLI) | 1 | **32** / 105 | 12 / 45 | 20 / 60 | 3 | 44.9 min | $5.97 |
+| Gemini 4 Argon (medium effort, Antigravity CLI) - mean of 3 | mean of 3 | 39.3 / 105 | 13.7 / 45 | 25.7 / 60 | 11.3 | 59.9 min | $7.50 |
+| Gemini 4 Argon (high effort, Antigravity CLI) - mean of 3 | mean of 3 | 40.7 / 105 | 13.0 / 45 | 27.7 / 60 | 7.3 | 56.5 min | $7.16 |
+
+The three tiers order as expected, and the dial works mostly on repo 2 - repo 1 sits at 12 to 14 whatever the tier.
+Low is only a little cheaper than the tiers above it.
+
+**Why one run.** Three low runs were started. In runs 1 and 3 the repo-2 leg did not finish: the local gateway
+stopped answering before Google began its stream (the CLI gives up on a response that has not started within about
+a minute), and the resumed conversations then ran into the API key's depleted prepaid credit. Run 2 finished both
+repos and is the row.
+
+**A different judge.** Codex refused gpt-5.5 for the account from about 16:56 on Oct 14, so this row was judged by
+Grok (grok-4.7), the board's second calibrated judge and not a sibling of Gemini. The other Argon rows were judged by
+Codex; scores from two judges are close but not perfectly interchangeable.
